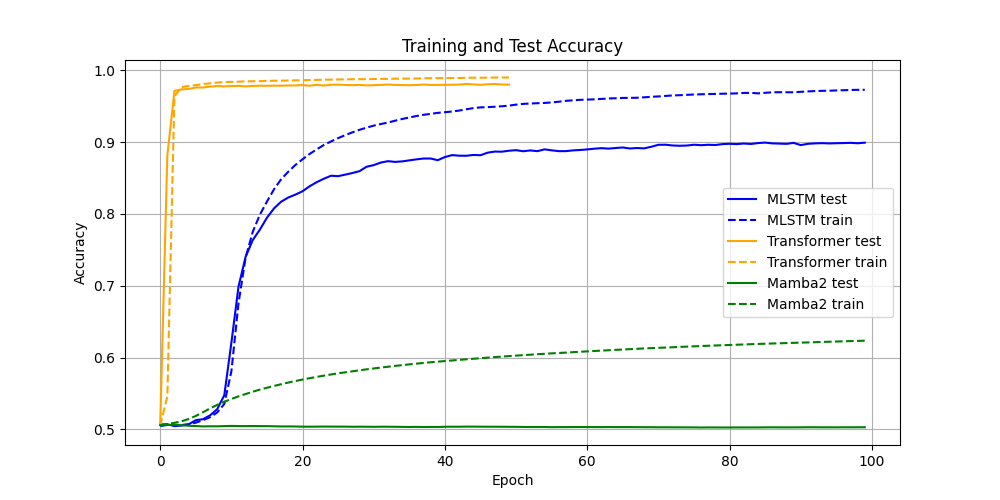
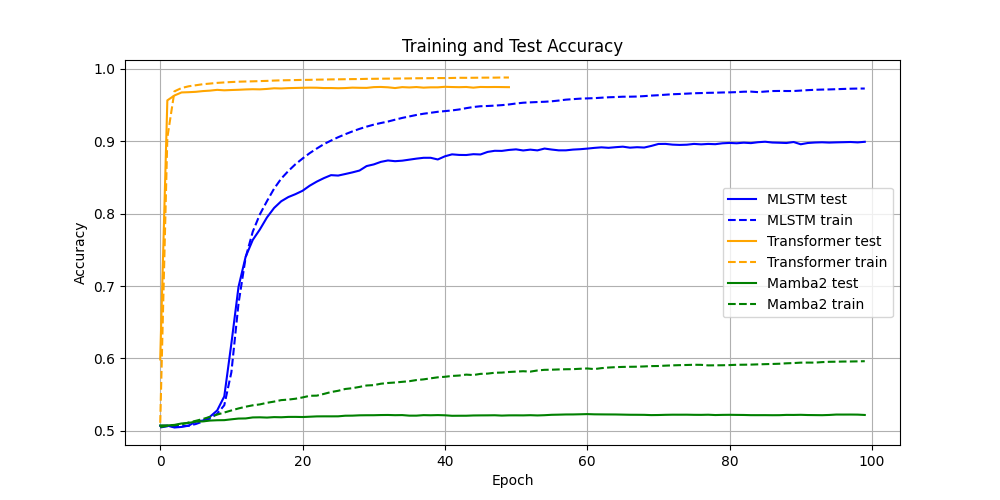
fix

diff --git a/readme.md b/readme.md
@@ -50,6 +50,6 @@ The file `ur_lstm.py` contains the implementation of the improved lstm, it was t
 
 ### Example Results
 
-With the settings in the config-files, the models "see" 9000 frames of 512 features, and subsequently 180 test frames for which the model needs to decide whether the test frame was in the 9000 seen frames or not (randomized order, 90 seen, 90 unseen test frames). Test sequences are generated with videos that are not used in the training set. Below are accuracies for models based on a simple transformer (with blocks and masking of the current input), or one mLSTM block.
+With the settings in the config-files, the models "see" 9000 frames of 512 features, and subsequently 180 test frames for which the model needs to decide whether the test frame was in the 9000 seen frames or not (randomized order, 90 seen, 90 unseen test frames). Test sequences are generated with videos that are not used in the training set. Below are accuracies for models based on a simple transformer (with two blocks), or one mLSTM or mamba2 block.
 
 ![](training_curves.png)
